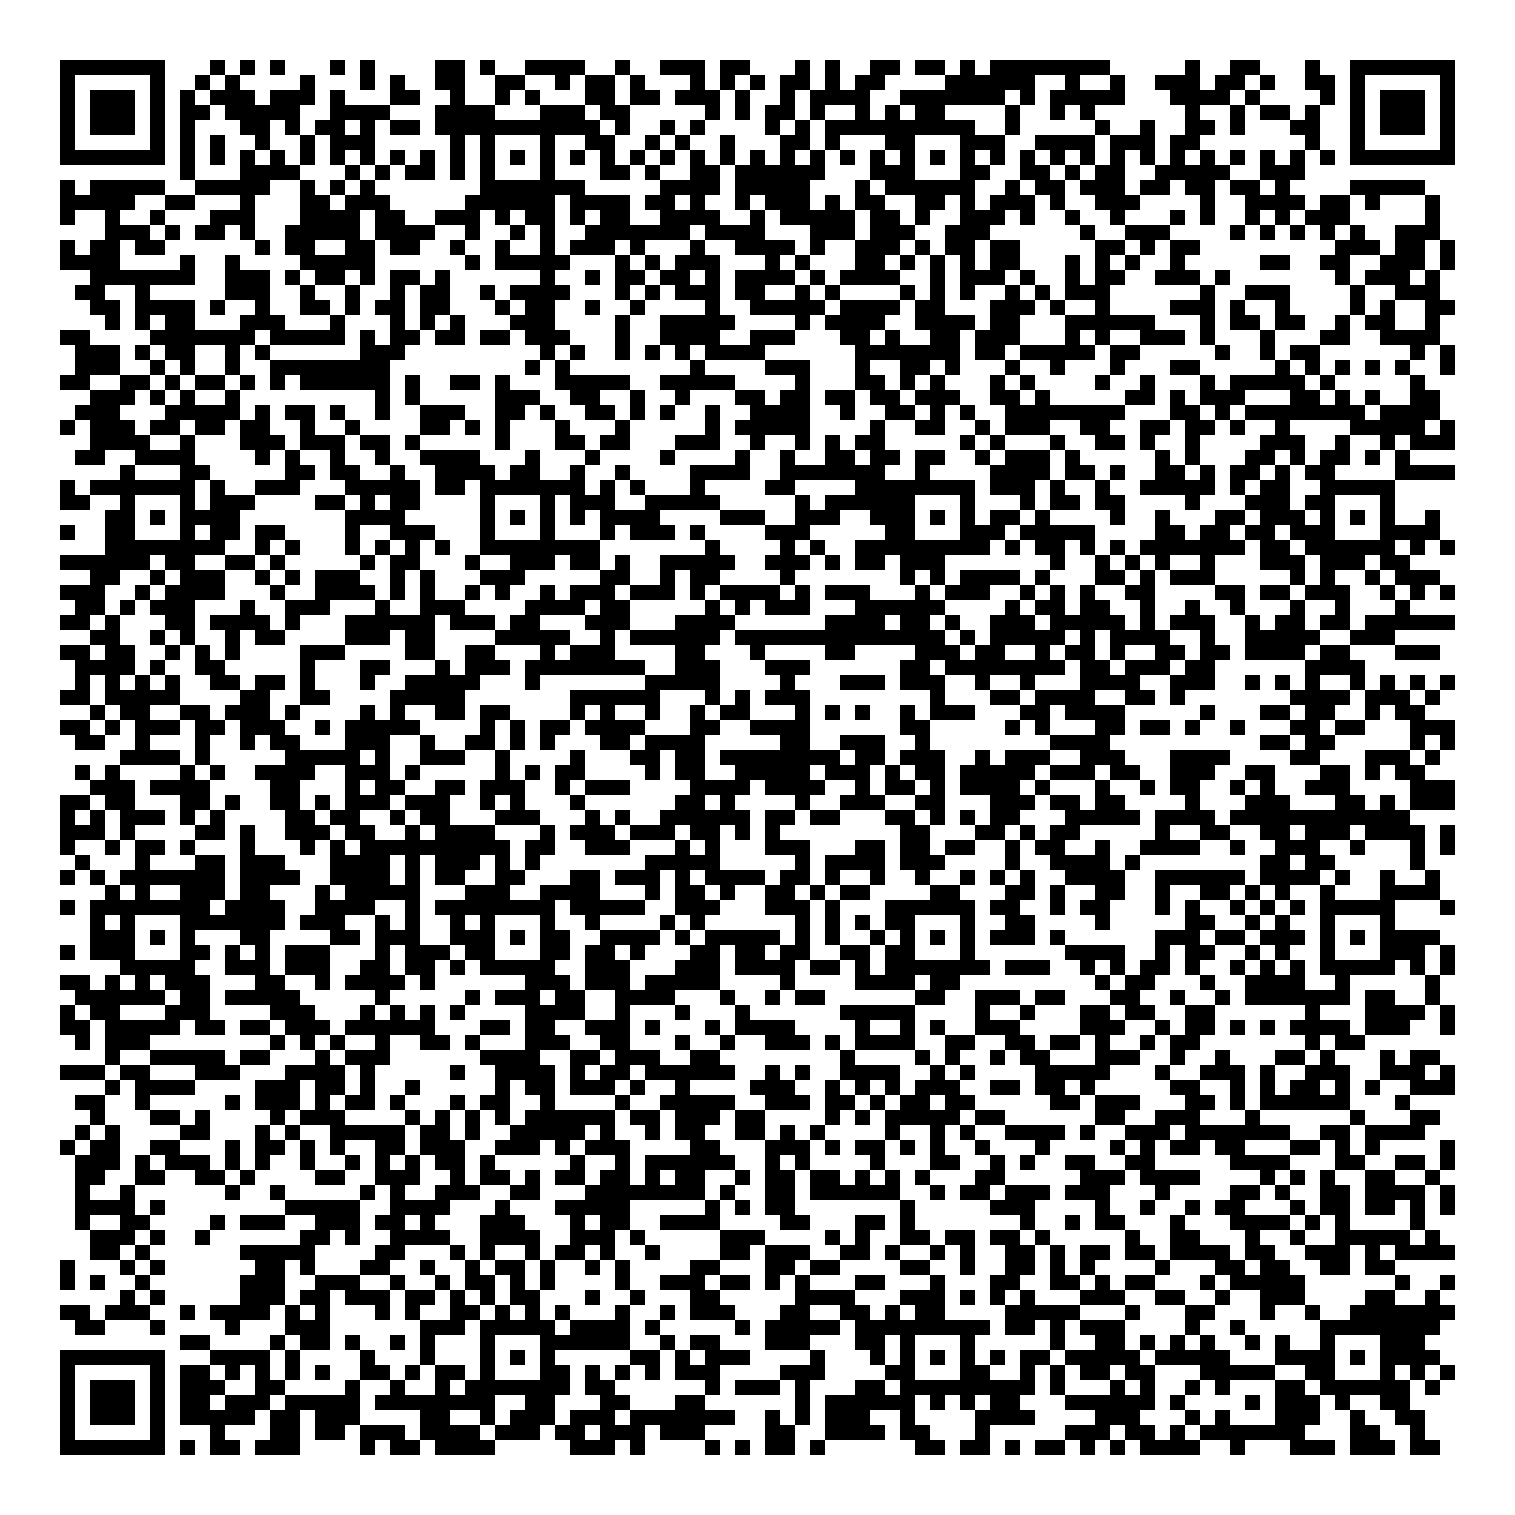
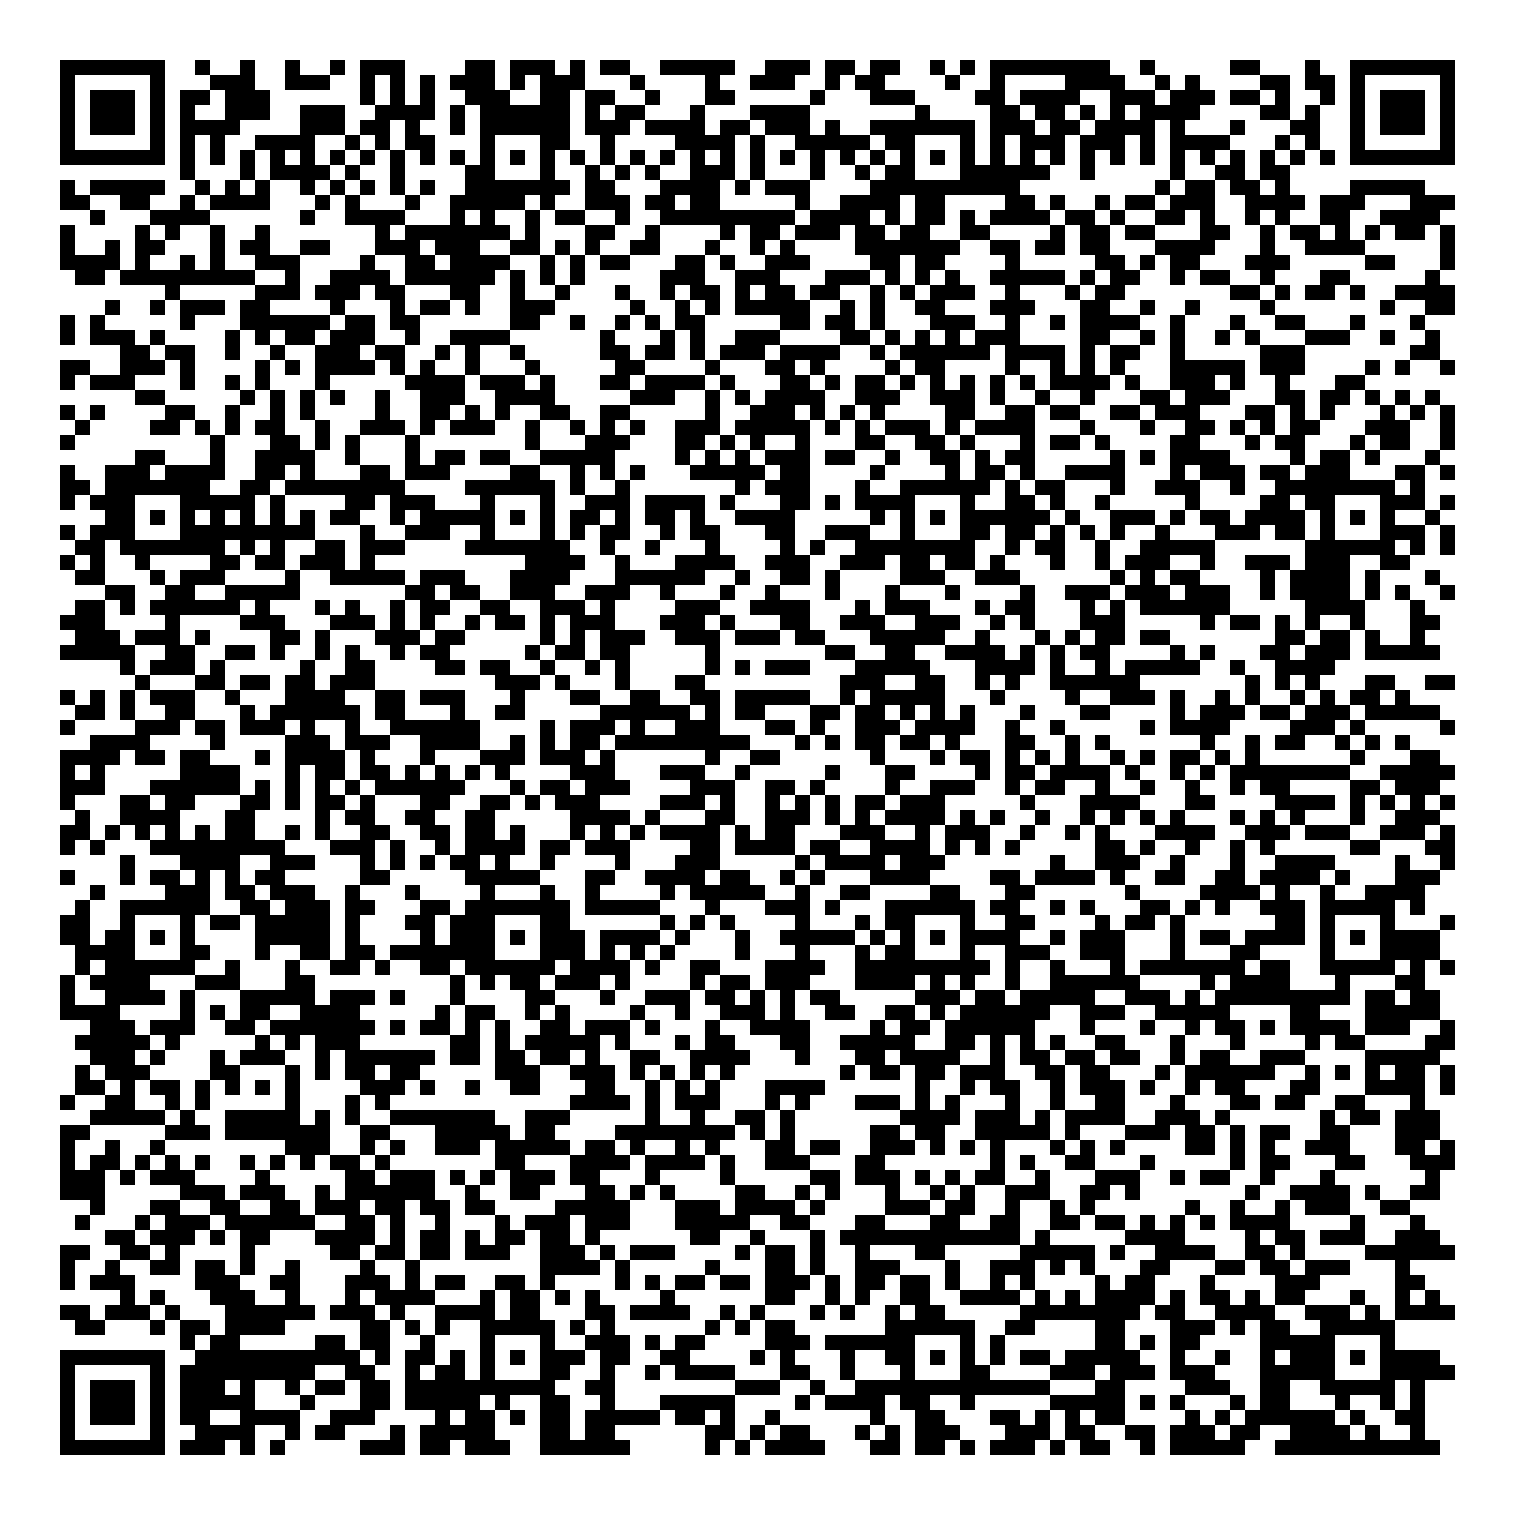
auto detect ip

diff --git a/src/Cloud-Agent/Front-end/serveurW_Front.py b/src/Cloud-Agent/Front-end/serveurW_Front.py
@@ -7,14 +7,25 @@ import subprocess
 import signal
 import json
 from QrCode_Generation import QRCode
+from socket import *
+from netifaces import interfaces, ifaddresses, AF_INET
+
 
 # /////// CONFIG ///////
 
 # Chemin du dossier qui contient ce fichier .py
 selfFolderPath = os.getcwd() 
 
+# Permet de récupérer automatiquement l'@ip de l'interface de la machine reliée au LAN. 
+listeAdresses = []*len(interfaces())
+for ifaceName in interfaces():
+    addresses = [i['addr'] for i in ifaddresses(ifaceName).setdefault(AF_INET, [{'addr':'No IP addr'}] )]
+    listeAdresses.append(addresses)
+
+genesisIP = 'localhost'
+
 # "&" pour lancer en tâche de fond.
-AgentStartCommand = "aca-py start   --label ServeurW   -it http 0.0.0.0 8000   -ot http   --admin 0.0.0.0 11000   --admin-insecure-mode   --genesis-url http://localhost:9000/genesis   --seed ServeurW000000000000000000000000   --endpoint http://192.168.1.17:8000/   --debug-connections   --public-invites   --auto-provision   --wallet-type indy   --wallet-name ServeurW   --wallet-key secret   --auto-accept-requests --auto-accept-invites &"
+AgentStartCommand = "aca-py start   --label ServeurW   -it http 0.0.0.0 8000   -ot http   --admin 0.0.0.0 11000   --admin-insecure-mode   --genesis-url http://"+genesisIP+":9000/genesis   --seed ServeurW000000000000000000000000   --endpoint http://"+listeAdresses[1][0]+":8000/   --debug-connections   --public-invites   --auto-provision   --wallet-type indy   --wallet-name ServeurW   --wallet-key secret   --auto-accept-requests --auto-accept-invites &"
 
 InvitCommand = ''' curl -X POST "http://localhost:11000/out-of-band/create-invitation" -H 'Content-Type: application/json' -d '{ "handshake_protocols": ["did:sov:BzCbsNYhMrjHiqZDTUASHg;spec/didexchange/1.0"],"use_public_did": false}' > invitClientW.json '''
 
@@ -98,13 +109,12 @@ class App:
         self.GLineEdit_1["text"] = ""
         self.GLineEdit_1.place(x=290,y=50,width=463,height=40)
 
-        self.GMessage_1=tk.Message(root)
-        self.GMessage_1["bg"] = "#a9e5a1"
-        self.GMessage_1["font"] = ft
-        self.GMessage_1["fg"] = "#333333"
-        self.GMessage_1["justify"] = "center"
-        self.GMessage_1["text"] = "Entrer l'invitation de ServeurB ci-dessous"
-        self.GMessage_1.place(x=290,y=150,width=464,height=40)
+        self.GText_1 = tk.Label(text = "Entrer l'invitation de ServeurB ci-dessous")
+        self.GText_1["bg"] = "#a9e5a1"
+        self.GText_1["font"] = ft
+        self.GText_1["fg"] = "#333333"
+        self.GText_1["justify"] = "center"
+        self.GText_1.place(x=290,y=150,width=464,height=40)
 
         self.GLineEdit_2=tk.Entry(root)
         self.GLineEdit_2["bg"] = "#a9e5a1"
